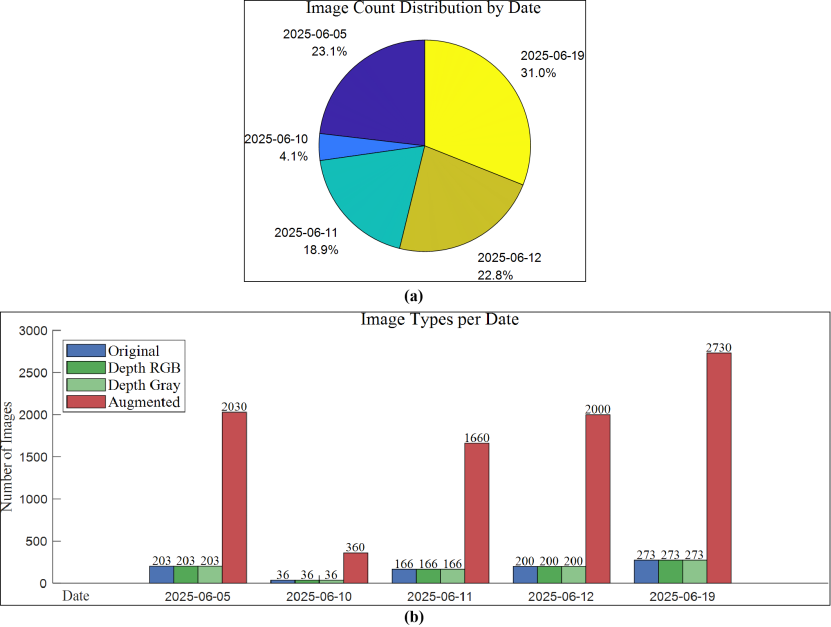
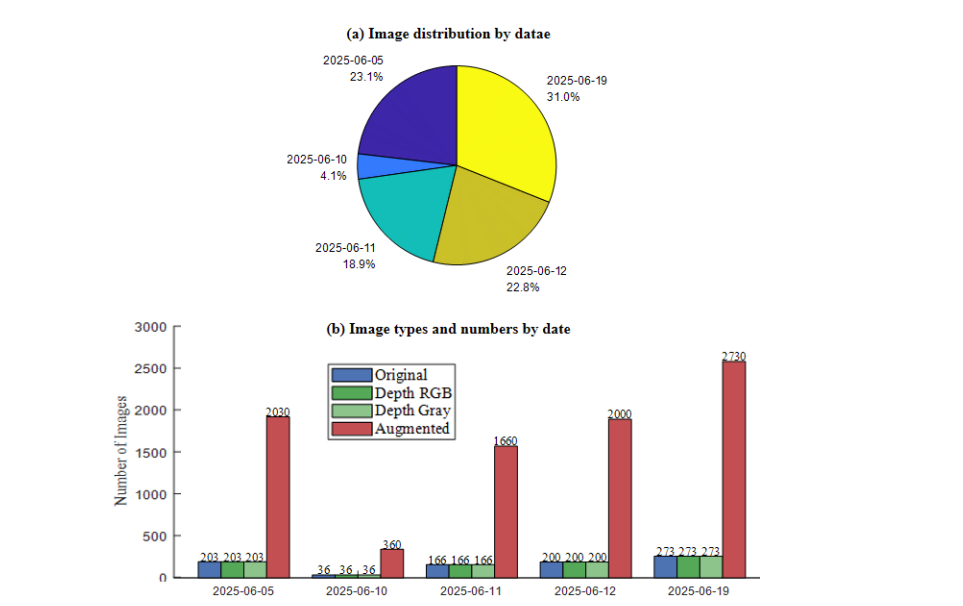
:memo: update readme

diff --git a/README.md b/README.md
@@ -1,5 +1,5 @@
 # 🍒 Lychee Dataset
-we constructed a new lychee dataset with the advantages of rich data types, large intra-class variations, diverse and comprehensive annotation formats, and well-defined maturity classifications.
+An RGB-D Image Dataset for Lychee Detection and Maturity Classification for Robotic Harvesting.
 
 <p align="center">
   <img src="doc/step.png" alt="The main steps of dataset preparation" width="500"/>
@@ -16,7 +16,7 @@ we constructed a new lychee dataset with the advantages of rich data types, larg
 
 | 🍒 Dataset | 🌦 Environment | 🏞 Scene | 📷 Modality | 🧩 Tasks | 🏷 Annotation | 🖼 Resolution |
 |------------|----------------|-----------|-------------|----------|----------------|----------------|
-| **Lychee** | ☀🌧 Morning, noon, evening <br> 3 weeks of maturity | 🏠 Indoor (on-table) <br> 🌳 Outdoor (on-tree) | 📸 9658 (RGB) <br> 📡 1756 (Depth) | 🔍 3 (detection) <br> ✋ Custom (grasp) | 📦 Boxes (detection) <br> 📐 Rotate rectangle (grasp) | 🖼 1280×1024 |
+| **Lychee** | ☀🌧 Morning, noon, evening <br> 3 weeks of maturity | 🏠 Indoor (on-table) <br> 🌳 Outdoor (on-tree) | 📸 9658 (RGB) <br> 📡 1756 (Depth) | 🔍 3 (detection) <br> | 📦 Boxes (detection) <br> 📐 Rotate rectangle (grasp) | 🖼 1280×1024 |
 
 ---
 
@@ -57,23 +57,14 @@ Lychee/
 │   │   │   ├── depth_estimate/
 │   │   │   │   ├── color/
 │   │   │   │   ├── gray/
-│   │   ├── grasp/
-│   │   │   ├── labels/
-│   │   │   ├── images/
-│   │   │   │   ├── corcell/
-│   │   │   │   └── jacquard/
 │   ├── 250610_table/
 │   │   ├── detection/
-│   │   └── grasp/#empty
 │   ├── 250611_rain/
 │   │   ├── detection/
-│   │   └── grasp/
 │   ├── 250612/
 │   │   ├── detection/
-│   │   └── grasp/
 │   └── 250619/
 │       ├── detection/
-│       └── grasp/
 ├── script/
 ├── doc/
 └── README.md
@@ -103,9 +94,9 @@ Lychee/
   <img src="doc/dataset_detection_annotation_statistics.png" alt="Detection annotation statistics of the dataset" width="500"/>
 </p>
 
-###  Grasping annotation statistics
+###  Maturity annotation statistics
 <p align="center">
-  <img src="doc/dataset_grasping_annotation_statistics.png" alt="Grasping annotation statistics of the dataset" width="500"/>
+  <img src="doc/dataset_maturity_annotation_statistics.png" alt="Grasping annotation statistics of the dataset" width="500"/>
 </p>
 
 ---
